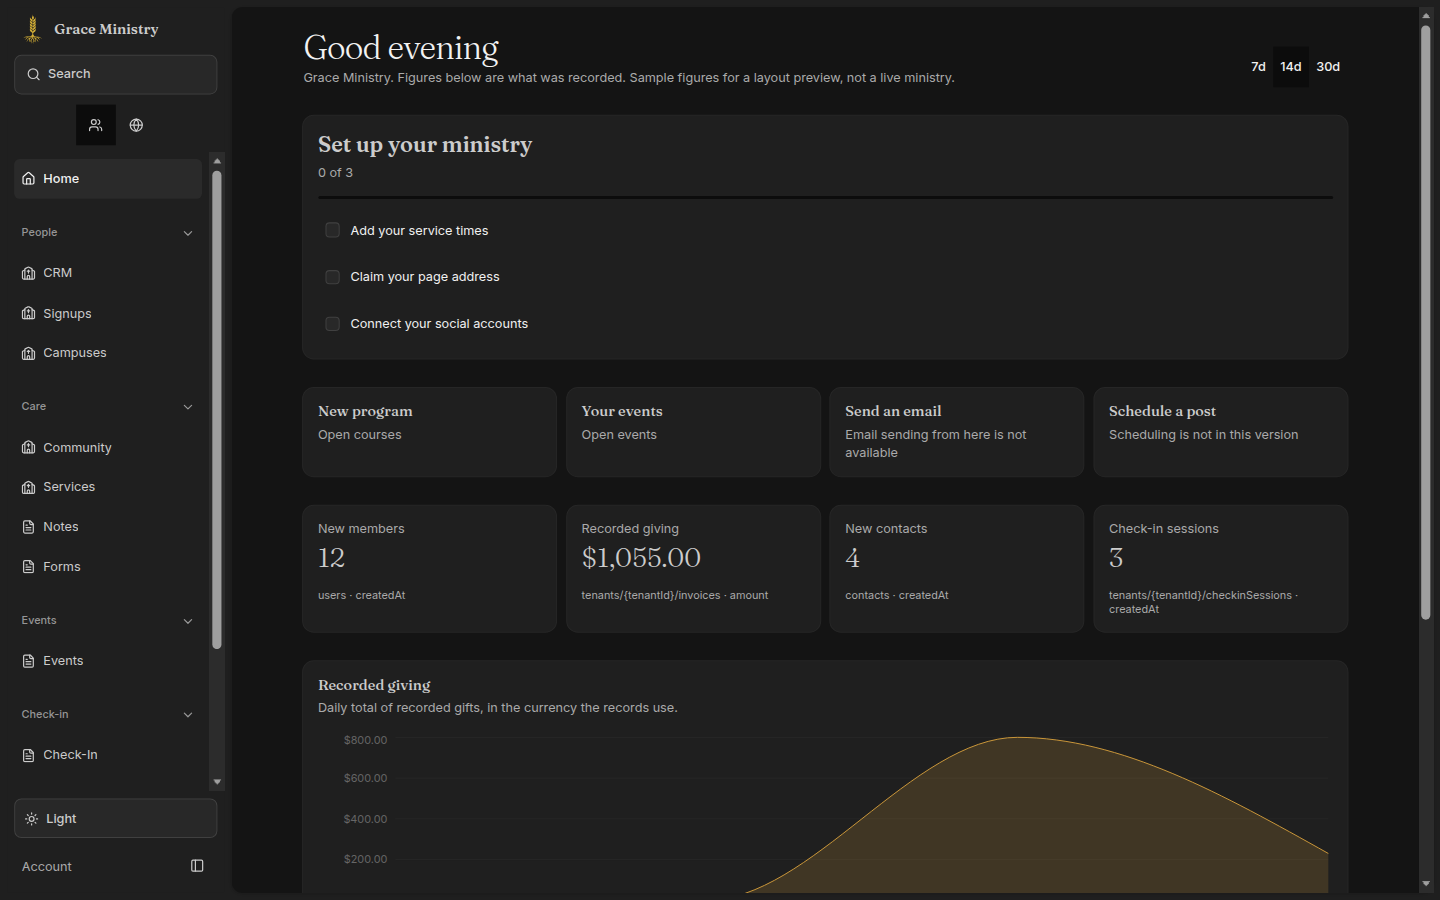
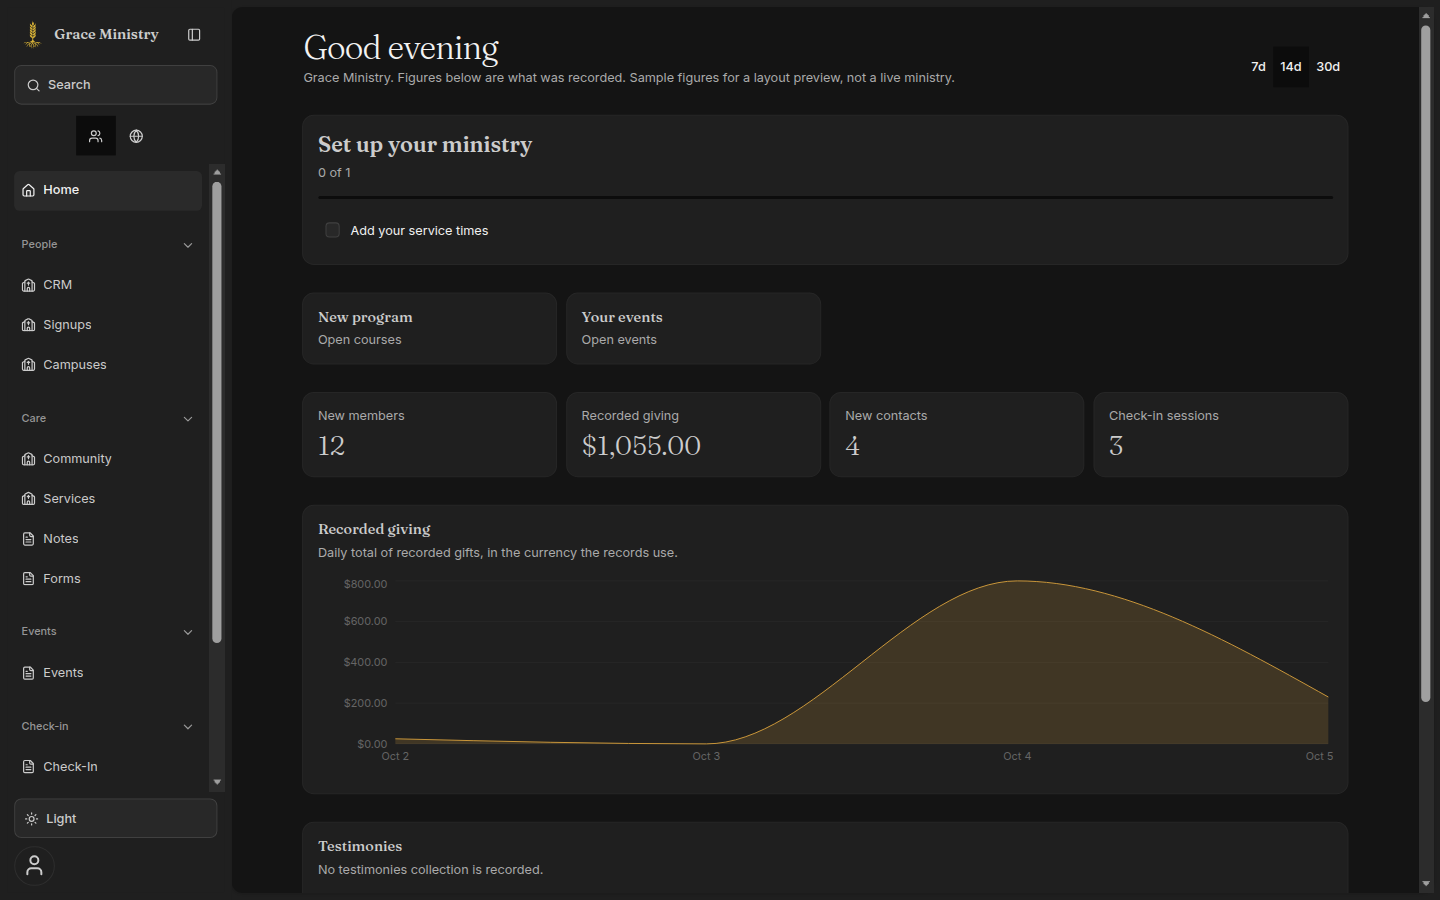
fix(admin): gate home quick actions and refresh proof shots
New program and Your events render only for tab ids already in the nav,
which is the plan and role gate the routes use. The collapsed rail
account control is an icon with an accessible name. The after
screenshots match this home.

diff --git a/src/components/admin-shell/AdminHome.tsx b/src/components/admin-shell/AdminHome.tsx
@@ -40,6 +40,18 @@ const ACTIONS: readonly { title: string; body: string; target: HomeTarget }[] = 
   { title: 'Your events', body: 'Open events', target: { kind: 'tab', id: 'events' } },
 ];
 
+/**
+ * Quick actions the admin can actually open.
+ *
+ * `openTabIds` is the same list the dashboard puts in the nav and accepts as a
+ * route. A tab missing from it is bounced back to Dashboard, so the card must
+ * not be offered. An empty list hides both.
+ */
+export function homeQuickActions(openTabIds: readonly string[]) {
+  const open = new Set(openTabIds);
+  return ACTIONS.filter((action) => action.target.kind === 'tab' && open.has(action.target.id));
+}
+
 interface TestimonyRow {
   name: string;
   date: string;
@@ -70,6 +82,12 @@ export interface AdminHomeViewProps {
   givingByDay: Series;
   sampleLabel?: string;
   onOpen: (target: HomeTarget) => void;
+  /**
+   * Tab ids this admin may open. The live home passes the dashboard's nav list,
+   * which is the plan and role gate the routes use. Omit none of them: an empty
+   * list hides every quick action.
+   */
+  openTabIds?: readonly string[];
   /** Preview shows the figure cards. The live home passes false and gates them. */
   includeFigures?: boolean;
   showPeriod?: boolean;
@@ -85,10 +103,12 @@ export function AdminHomeView({
   givingByDay,
   sampleLabel,
   onOpen,
+  openTabIds = [],
   includeFigures = true,
   showPeriod = true,
   after,
 }: AdminHomeViewProps) {
+  const actions = homeQuickActions(openTabIds);
   return (
     <div className="mx-auto flex w-full max-w-6xl flex-col gap-8" data-admin-home data-screen="AdminHome">
       <header className="flex flex-wrap items-end justify-between gap-4">
@@ -145,8 +165,9 @@ export function AdminHomeView({
         </CardContent>
       </Card>
 
+      {actions.length > 0 && (
       <div className="grid gap-3 sm:grid-cols-2 xl:grid-cols-4">
-        {ACTIONS.map((action) => (
+        {actions.map((action) => (
           <button
             key={action.title}
             type="button"
@@ -162,6 +183,7 @@ export function AdminHomeView({
           </button>
         ))}
       </div>
+      )}
 
       {includeFigures && <HomeFigures loading={loading} cards={cards} givingByDay={givingByDay} />}
       {after}
@@ -321,12 +343,15 @@ export function AdminHome({
   isSuperAdmin,
   unreadCount,
   onOpen,
+  openTabIds = [],
 }: {
   tenantId: string | null;
   tenantName: string;
   isSuperAdmin: boolean;
   unreadCount: number;
   onOpen: (target: HomeTarget) => void;
+  /** Tab ids the dashboard already accepted. Same list the route guard uses. */
+  openTabIds?: readonly string[];
 }) {
   const [period, setPeriod] = useState<HomePeriod>(14);
   const [access, setAccess] = useState<AnalyticsAccess>('pending');
@@ -348,6 +373,7 @@ export function AdminHome({
       cards={[]}
       givingByDay={{ kind: 'unavailable', reason: '' }}
       onOpen={onOpen}
+      openTabIds={openTabIds}
       includeFigures={false}
       showPeriod={false}
       after={

diff --git a/src/components/admin-shell/admin-shell.test.tsx b/src/components/admin-shell/admin-shell.test.tsx
@@ -206,6 +206,7 @@ describe('home copy', () => {
             figure: { kind: 'exact', value: 2 },
           }]}
           givingByDay={{ kind: 'unavailable', reason: 'This read did not complete, so no figure can be shown.' }}
+          openTabIds={['courses', 'events']}
           onOpen={() => {}}
         />,
       );
@@ -216,8 +217,60 @@ describe('home copy', () => {
     expect(host.textContent).not.toContain('Email sending from here is not available');
     expect(host.textContent).not.toContain('Scheduling is not in this version');
     expect(host.textContent).toContain('New program');
+    expect(host.textContent).toContain('Your events');
     act(() => { local.unmount(); });
     host.remove();
+  });
+
+  it('hides a quick action when that screen is not in the route list', () => {
+    const host = document.createElement('div');
+    document.body.appendChild(host);
+    const local = createRoot(host);
+    const open = vi.fn();
+    act(() => {
+      local.render(
+        <AdminHomeView
+          tenantName="Grace Ministry"
+          period={14}
+          onPeriod={() => {}}
+          loading={false}
+          cards={[]}
+          givingByDay={{ kind: 'unavailable', reason: 'This read did not complete, so no figure can be shown.' }}
+          openTabIds={['courses', 'dashboard']}
+          onOpen={open}
+        />,
+      );
+    });
+    expect(host.textContent).toContain('New program');
+    expect(host.textContent).not.toContain('Your events');
+    const courses = [...host.querySelectorAll('button')].find((button) => button.textContent?.includes('New program'));
+    act(() => { courses?.click(); });
+    expect(open).toHaveBeenCalledWith({ kind: 'tab', id: 'courses' });
+    act(() => { local.unmount(); });
+    host.remove();
+
+    const denied = document.createElement('div');
+    document.body.appendChild(denied);
+    const deniedRoot = createRoot(denied);
+    act(() => {
+      deniedRoot.render(
+        <AdminHomeView
+          tenantName="Grace Ministry"
+          period={14}
+          onPeriod={() => {}}
+          loading={false}
+          cards={[]}
+          givingByDay={{ kind: 'unavailable', reason: 'This read did not complete, so no figure can be shown.' }}
+          openTabIds={['dashboard', 'services']}
+          onOpen={() => {}}
+        />,
+      );
+    });
+    expect(denied.textContent).not.toContain('New program');
+    expect(denied.textContent).not.toContain('Your events');
+    expect(denied.textContent).toContain('Add your service times');
+    act(() => { deniedRoot.unmount(); });
+    denied.remove();
   });
 });
 

diff --git a/src/components/__tests__/THE-332.nav-rail.layout.test.tsx b/src/components/__tests__/THE-332.nav-rail.layout.test.tsx
@@ -249,7 +249,11 @@ setUpOrFail(async () => {
           logoUrl="/logo.png"
           onNavigate={() => {}}
           onPlaceholder={() => {}}
-          accountMenu={<button type="button" data-nav-rail-account="" aria-label="My account" className="min-h-11 min-w-11" />}
+          accountMenu={(
+            <button type="button" data-nav-rail-account="" aria-label="My account" className="flex size-11 items-center justify-center">
+              <span data-shell-account-label>Account</span>
+            </button>
+          )}
         />
       </SidebarProvider>
     </TooltipProvider>,
@@ -385,7 +389,7 @@ describe('THE-332 · measured', () => {
     expect(collapsedProbe, 'the collapsed sidebar was not measured').toBeTruthy();
     const probe = collapsedProbe!;
     expect(probe.clippedIcons, 'an icon is clipped by the collapsed rail').toBe(0);
-    expect(probe.shown, `collapsed rail still shows "${probe.shown}"`).not.toMatch(/Home|CRM|People|Search|Ministry|Publish/);
+    expect(probe.shown, `collapsed rail still shows "${probe.shown}"`).not.toMatch(/Home|CRM|People|Search|Ministry|Publish|Account/);
     expect(probe.overlapsAccount, 'the expand trigger overlaps the account avatar').toBe(false);
     expect(probe.triggerOwnsHit, 'the expand trigger is not the element under the pointer').toBe(true);
     expect(probe.lightBg, 'collapsed rail is not the light sidebar ground').toBe('rgb(255, 255, 255)');

diff --git a/src/components/admin-shell/AdminShellPreview.tsx b/src/components/admin-shell/AdminShellPreview.tsx
@@ -7,6 +7,7 @@ import {
   GraduationCap,
   LayoutDashboard,
   MoreHorizontal,
+  User,
 } from 'lucide-react';
 
 import { applyTheme } from '@/lib/theme-runtime';
@@ -200,7 +201,17 @@ function AfterChrome({ side, collapsed }: { side: ShellSideId; collapsed: boolea
               logoUrl={LOGO}
               onNavigate={() => {}}
               onPlaceholder={() => {}}
-              accountMenu={<span className="px-2 text-sm text-muted">Account</span>}
+              accountMenu={(
+                <button
+                  type="button"
+                  data-nav-rail-account=""
+                  aria-label="My account"
+                  title="My account"
+                  className="flex size-11 items-center justify-center rounded-full border border-sidebar-border bg-sidebar text-sidebar-foreground"
+                >
+                  <User />
+                </button>
+              )}
             />
           )}
           <MobileBar className={AFTER_SHELL} />
@@ -221,6 +232,7 @@ function AfterChrome({ side, collapsed }: { side: ShellSideId; collapsed: boolea
                 ],
               }}
               sampleLabel="Sample figures for a layout preview, not a live ministry."
+              openTabIds={['courses', 'events']}
               onOpen={() => {}}
             />
           </SidebarInset>

diff --git a/src/__tests__/the-302-guards.test.ts b/src/__tests__/the-302-guards.test.ts
@@ -123,6 +123,9 @@ const UNTOUCHED: Record<string, ReadonlyArray<readonly [digest: string, source: 
     // APPENDED BY #529 QA, nothing above removed or rewritten.
[1 lines of base64/hex data omitted]
       `main + #529 QA - the desktop sidebar provider sets --sidebar-width-icon to 3.75rem so the collapsed icon rail fits a 44px control. No nav array, group, permission gate, or screen mount moved.`],
+    // APPENDED BY #529 QA, nothing above removed or rewritten.
[1 lines of base64/hex data omitted]
+      `main + #529 QA - Home receives the tab ids already in the nav, so a quick action is offered only when that route would accept it. No nav array, group, permission term, or screen mount moved.`],
   ],
   // 🔴 A NAMED STOP CONDITION on this ticket: "do not touch `runDodoPlanChange`
   // or `plan-change.ts` unless the fix genuinely requires it". It did not — part

diff --git a/src/__tests__/the-283-growth-guards.test.ts b/src/__tests__/the-283-growth-guards.test.ts
@@ -332,6 +332,9 @@ const UNTOUCHED: Record<string, ReadonlyArray<readonly [digest: string, source: 
     // APPENDED BY #529 QA, nothing above removed or rewritten.
[1 lines of base64/hex data omitted]
       `main + #529 QA - the desktop sidebar provider sets --sidebar-width-icon to 3.75rem so the collapsed icon rail fits a 44px control. No nav array, group, permission gate, or screen mount moved.`],
+    // APPENDED BY #529 QA, nothing above removed or rewritten.
[1 lines of base64/hex data omitted]
+      `main + #529 QA - Home receives the tab ids already in the nav, so a quick action is offered only when that route would accept it. No nav array, group, permission term, or screen mount moved.`],
   ],
   'firestore.indexes.json': [
[1 lines of base64/hex data omitted]

diff --git a/src/__tests__/the-290-giving-guards.test.ts b/src/__tests__/the-290-giving-guards.test.ts
@@ -400,6 +400,9 @@ const UNTOUCHED: Record<string, ReadonlyArray<readonly [digest: string, source: 
     // APPENDED BY #529 QA, nothing above removed or rewritten.
[1 lines of base64/hex data omitted]
       `main + #529 QA - the desktop sidebar provider sets --sidebar-width-icon to 3.75rem so the collapsed icon rail fits a 44px control. No nav array, group, permission gate, or screen mount moved.`],
+    // APPENDED BY #529 QA, nothing above removed or rewritten.
[1 lines of base64/hex data omitted]
+      `main + #529 QA - Home receives the tab ids already in the nav, so a quick action is offered only when that route would accept it. No nav array, group, permission term, or screen mount moved.`],
   ],
   'firestore.indexes.json': [
[1 lines of base64/hex data omitted]

diff --git a/src/__tests__/the-294-activity-guards.test.ts b/src/__tests__/the-294-activity-guards.test.ts
@@ -534,6 +534,9 @@ const UNTOUCHED: Record<string, ReadonlyArray<readonly [digest: string, source: 
     // APPENDED BY #529 QA, nothing above removed or rewritten.
[1 lines of base64/hex data omitted]
       `main + #529 QA - the desktop sidebar provider sets --sidebar-width-icon to 3.75rem so the collapsed icon rail fits a 44px control. No nav array, group, permission gate, or screen mount moved.`],
+    // APPENDED BY #529 QA, nothing above removed or rewritten.
[1 lines of base64/hex data omitted]
+      `main + #529 QA - Home receives the tab ids already in the nav, so a quick action is offered only when that route would accept it. No nav array, group, permission term, or screen mount moved.`],
   ],
   'firestore.indexes.json': [
[1 lines of base64/hex data omitted]

diff --git a/src/__tests__/the-299-retention-guards.test.ts b/src/__tests__/the-299-retention-guards.test.ts
@@ -754,6 +754,9 @@ const UNTOUCHED: Record<string, ReadonlyArray<readonly [digest: string, source: 
     // APPENDED BY #529 QA, nothing above removed or rewritten.
[1 lines of base64/hex data omitted]
       `main + #529 QA - the desktop sidebar provider sets --sidebar-width-icon to 3.75rem so the collapsed icon rail fits a 44px control. No nav array, group, permission gate, or screen mount moved.`],
+    // APPENDED BY #529 QA, nothing above removed or rewritten.
[1 lines of base64/hex data omitted]
+      `main + #529 QA - Home receives the tab ids already in the nav, so a quick action is offered only when that route would accept it. No nav array, group, permission term, or screen mount moved.`],
   ],
   'firestore.indexes.json': [
[1 lines of base64/hex data omitted]

diff --git a/src/__tests__/the-276-dashboard-guards.test.ts b/src/__tests__/the-276-dashboard-guards.test.ts
@@ -407,6 +407,9 @@ const UNTOUCHED: Record<string, ReadonlyArray<readonly [digest: string, source: 
     // APPENDED BY #529 QA, nothing above removed or rewritten.
[1 lines of base64/hex data omitted]
       `main + #529 QA - the desktop sidebar provider sets --sidebar-width-icon to 3.75rem so the collapsed icon rail fits a 44px control. No nav array, group, permission gate, or screen mount moved.`],
+    // APPENDED BY #529 QA, nothing above removed or rewritten.
[1 lines of base64/hex data omitted]
+      `main + #529 QA - Home receives the tab ids already in the nav, so a quick action is offered only when that route would accept it. No nav array, group, permission term, or screen mount moved.`],
   ],
 };
 

diff --git a/src/components/__tests__/AdminDocs.persistent-tree.test.tsx b/src/components/__tests__/AdminDocs.persistent-tree.test.tsx
@@ -1041,6 +1041,8 @@ describe('AdminDashboard.tsx, firestore.rules and functions/ are byte-identical'
[1 lines of base64/hex data omitted]
     // APPENDED BY #529 QA, nothing above removed or rewritten. The collapsed icon rail width is set on the sidebar provider. No nav, permission, or screen mount moved.
[1 lines of base64/hex data omitted]
+    // APPENDED BY #529 QA, nothing above removed or rewritten. Home receives the nav's tab ids so a quick action exists only when that route would. No permission term was added.
[1 lines of base64/hex data omitted]
   ];
 
   it('AdminDashboard.tsx is untouched by THIS ticket — others legitimately own it', () => {

diff --git a/src/components/__tests__/THE-292.country-prompt.test.tsx b/src/components/__tests__/THE-292.country-prompt.test.tsx
@@ -698,6 +698,8 @@ describe('AdminDashboard.tsx, firestore.rules and functions/ byte-identical', ()
[1 lines of base64/hex data omitted]
     // APPENDED BY #529 QA, nothing above removed or rewritten. The collapsed icon rail width is set on the sidebar provider. No nav, permission, or screen mount moved.
[1 lines of base64/hex data omitted]
+    // APPENDED BY #529 QA, nothing above removed or rewritten. Home receives the nav's tab ids so a quick action exists only when that route would. No permission term was added.
[1 lines of base64/hex data omitted]
   ];
 
   it('🔴 AdminDashboard.tsx — not opened by this ticket', () => {
